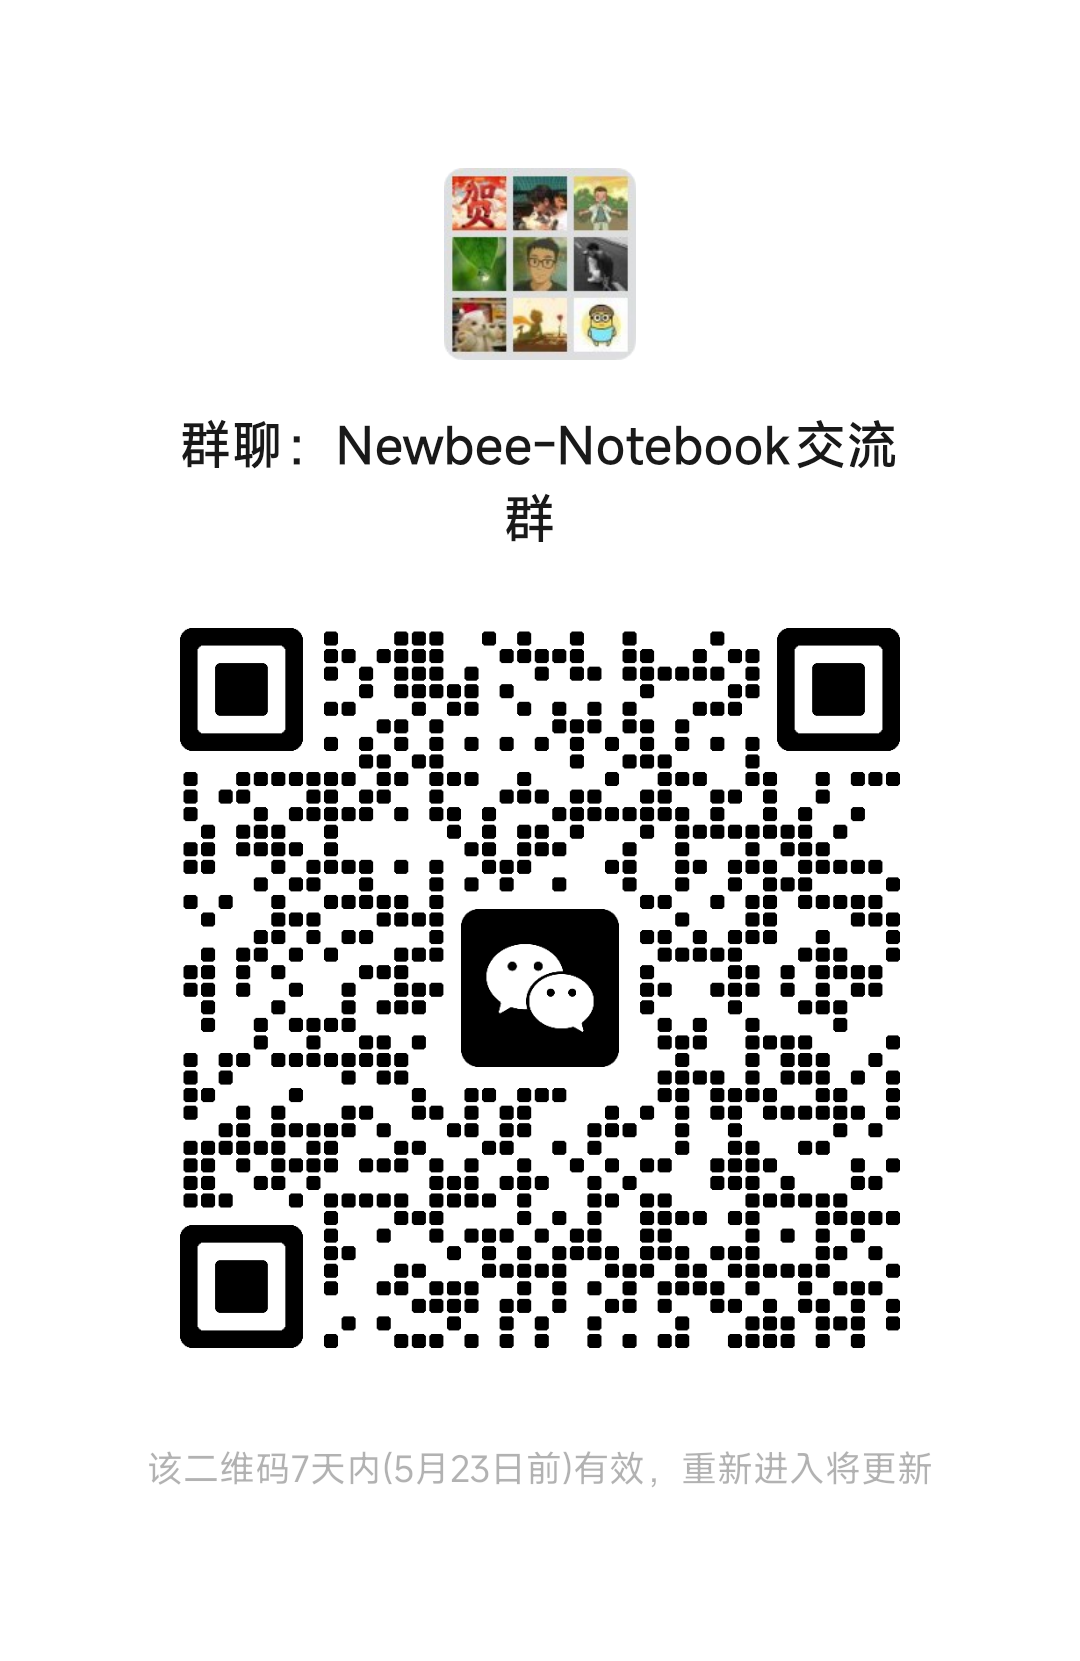
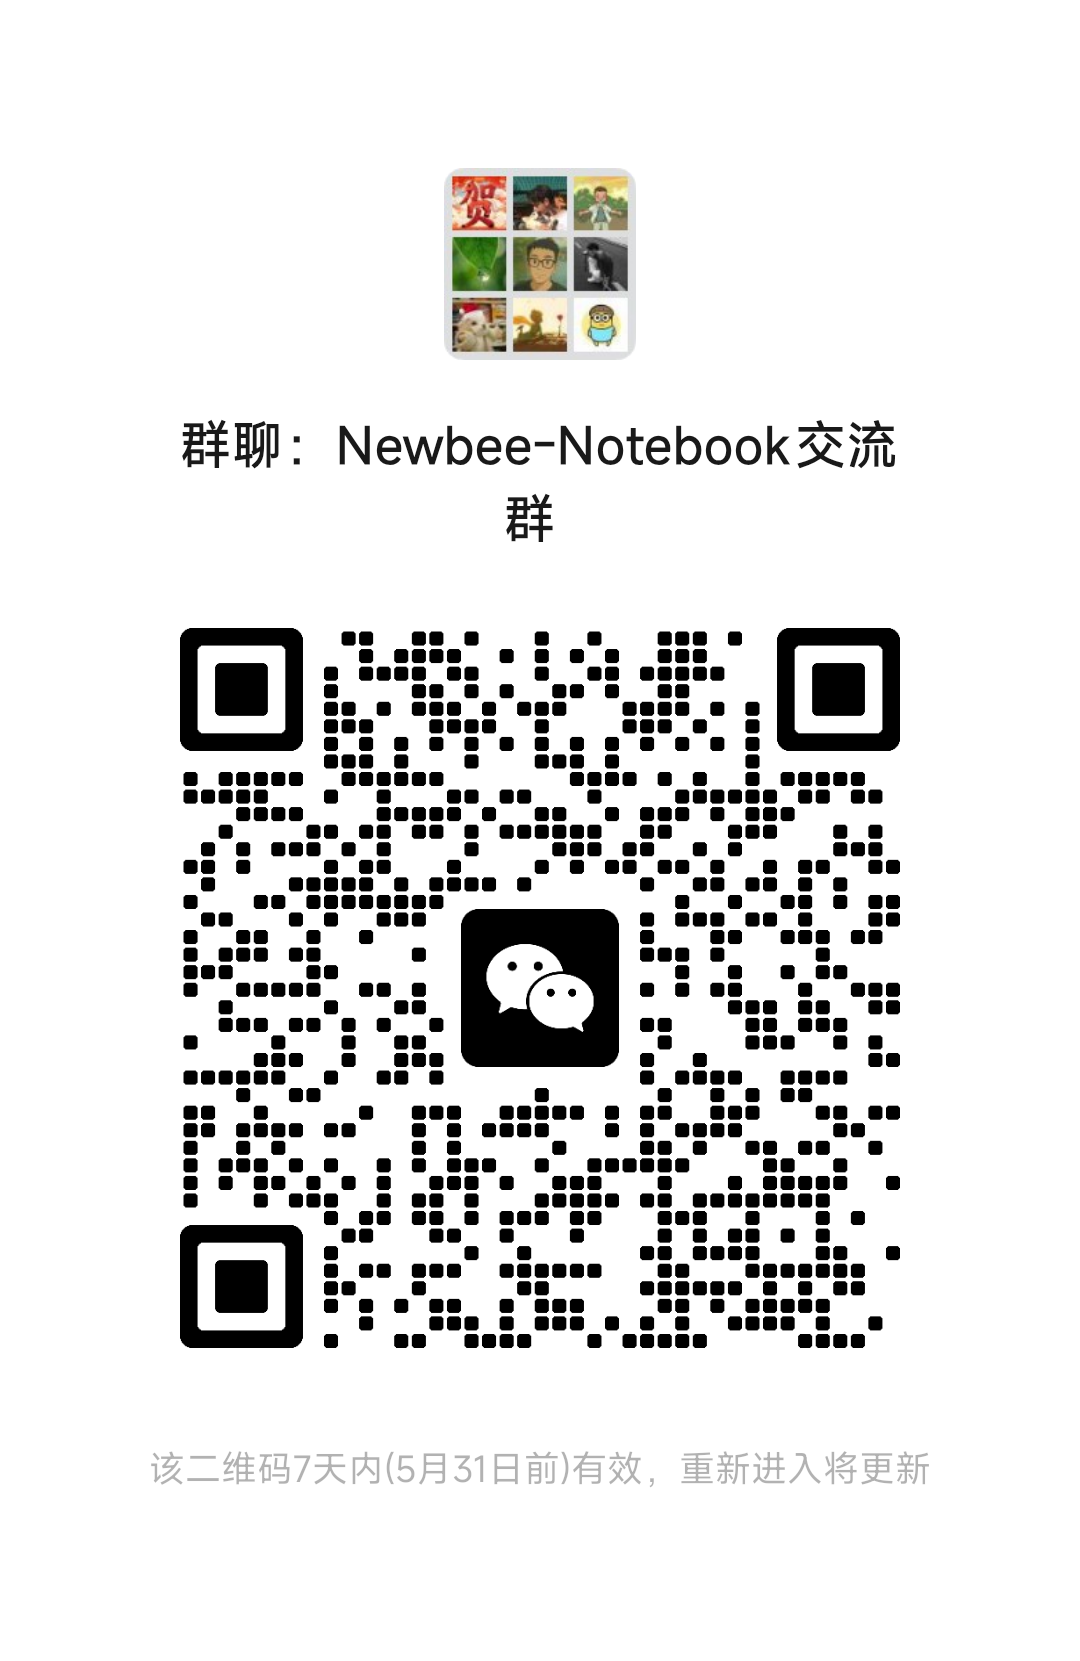
feat(readme):upadate wechat info

diff --git a/frontend/vitest.setup.ts b/frontend/vitest.setup.ts
@@ -1,6 +1,8 @@
-import { cleanup } from "@testing-library/react";
+import { cleanup, configure } from "@testing-library/react";
 import "@testing-library/jest-dom/vitest";
 import { afterEach } from "vitest";
+
+configure({ asyncUtilTimeout: 5_000 });
 
 afterEach(() => {
   cleanup();
